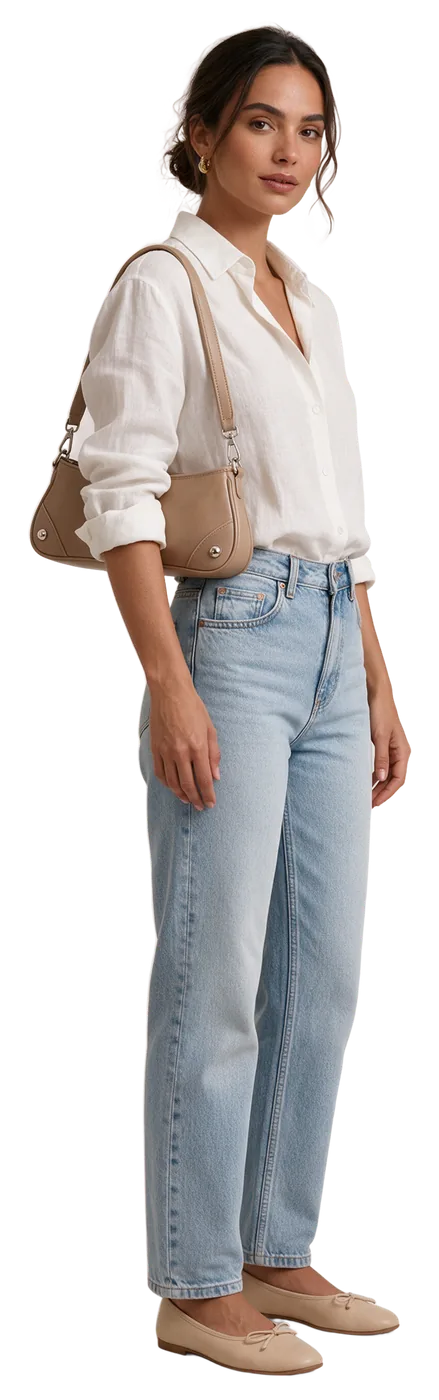
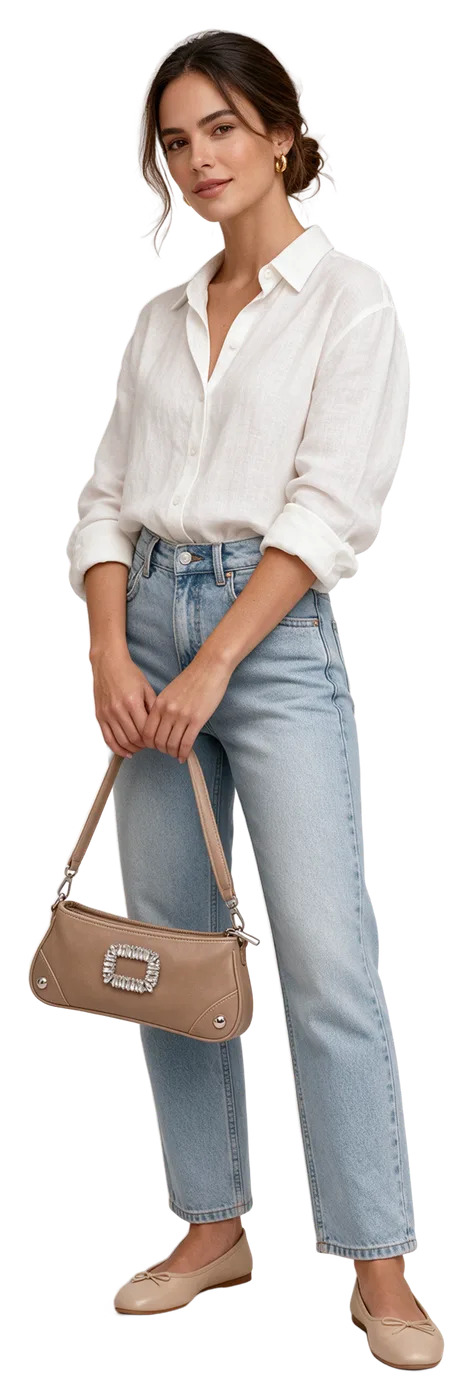
Lookbook: look 11 com a bolsa inteira à mostra
Claude-Session: https://claude.ai/code/session_018nCw6cVrWtJ5PPcbHFVEXx

diff --git a/lib/content/lookbook.ts b/lib/content/lookbook.ts
@@ -28,7 +28,7 @@ export const LOOKS: LookConfig[] = [
   { look: 8, tema: 'Academia', produtoId: '608c07b9-7da3-4f46-96a6-7e6e2a8dee3d', cor: 'Vermelho', fotoPedido: '608c07b9-7da3-4f46-96a6-7e6e2a8dee3d/6560477b-b739-47f7-8607-a02c38877ed1.jpg', proporcao: 0.3407 },
   { look: 9, tema: 'Praia', produtoId: '5fe0a6e9-385d-4386-a81e-ba1a9e65808b', cor: 'Laranja', fotoPedido: '5fe0a6e9-385d-4386-a81e-ba1a9e65808b/9b8c5b39-a3a5-4c25-9306-c901ae2266a7.jpg', proporcao: 0.4536 },
   { look: 10, tema: 'Faculdade e passeio', produtoId: '1af3fa33-f4b5-465c-8c72-fe648c6da40b', cor: 'Rosa', fotoPedido: '1af3fa33-f4b5-465c-8c72-fe648c6da40b/de7fdc31-94a7-4b8c-8fb8-97e85df2a56f.jpg', proporcao: 0.3679 },
-  { look: 11, tema: 'Brunch e café', produtoId: 'db9857fe-debb-4526-a642-d7ba818ecdfe', cor: 'Bege', fotoPedido: 'db9857fe-debb-4526-a642-d7ba818ecdfe/78ee10a9-d183-4724-bd75-236496b0f906.jpg', proporcao: 0.3136 },
+  { look: 11, tema: 'Brunch e café', produtoId: 'db9857fe-debb-4526-a642-d7ba818ecdfe', cor: 'Bege', fotoPedido: 'db9857fe-debb-4526-a642-d7ba818ecdfe/78ee10a9-d183-4724-bd75-236496b0f906.jpg', proporcao: 0.3371 },
   { look: 12, tema: 'Esporte e rua', produtoId: '6f8e473d-5e2a-4db8-a2c7-cec07e028ffd', cor: 'Preto Com Rosa', fotoPedido: '6f8e473d-5e2a-4db8-a2c7-cec07e028ffd/20951a74-4c49-4489-bb57-272d447878e4.jpg', proporcao: 0.4393 },
 ];
 
